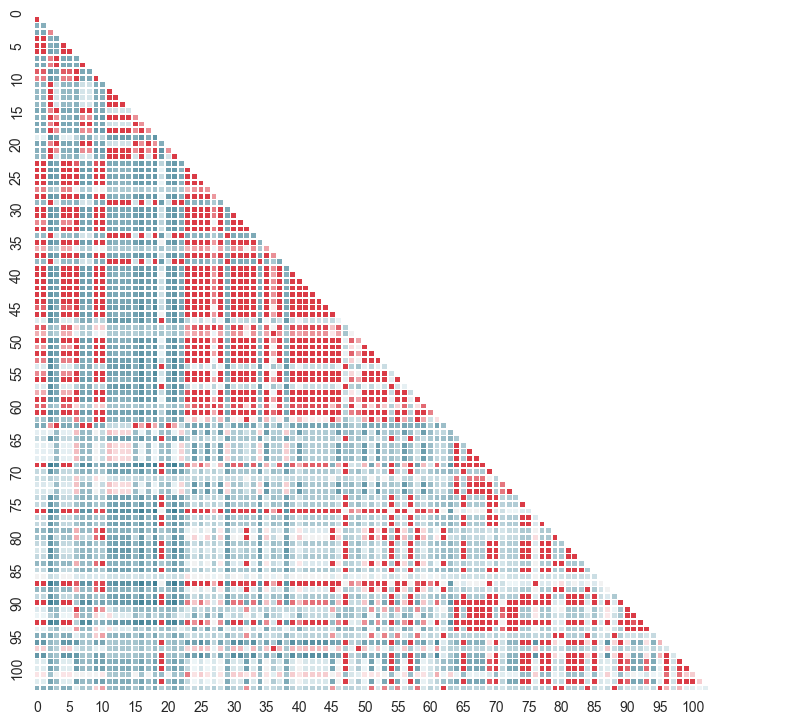
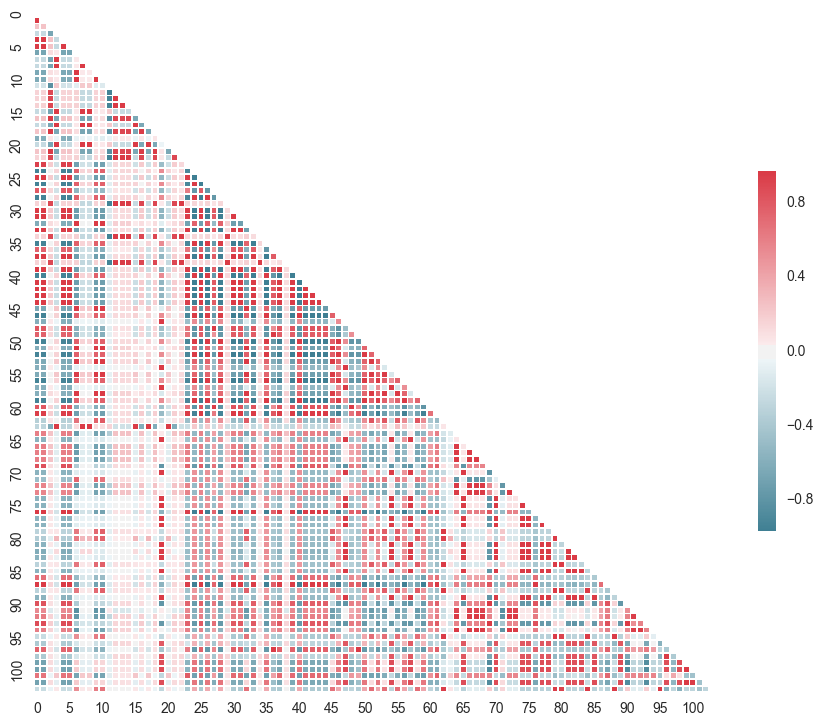
combined into one main file

Changed region(s): [[0.0, 0.0303, 0.881, 1.0], [0.9114, 0.2124, 1.0, 0.7283], [0.0, 0.0, 0.0304, 0.0303]]

diff --git a/Ruthie_Input/visual_paintor.py b/Ruthie_Input/visual_paintor.py
@@ -1,3 +1,123 @@
-#visual_paintor.py
 
-def zscore_plot(filename)
+'''
+
+INPUT: annotation file, ld file, result file
+OUTPUT: Plot of posterior probabilities, plot of pvalues, ld plot, annotations color bar graph
+
+'''
+
+from string import letters
+import numpy as np
+import pandas as pd
+import seaborn as sns
+import matplotlib.pyplot as plt
+import csv 
+import matplotlib as mpl
+from scipy.stats import norm
+import math 
+
+def Read_Data_CSV(filename):
+	"""Reads in space delimited file as input and loads data into an array"""
+	csv_file = csv.reader( open(filename, 'rb'),  delimiter = ' ' )
+	#extract header line
+	file_header = csv_file.next() 
+	#read in all data from input file into n x 3 array
+	data = [ row[:] for row in csv_file ] 
+	data_array = np.array(data, dtype='double' )    
+	np.set_printoptions(suppress=True) #suppress scientific notation  
+	first_column = data_array[:,0]
+	second_column = data_array[:,1]
+	third_column = data_array[:,2]
+	return data_array
+
+def Read_Data_panda(filename):
+	"""Reads in space delimted file as input and loads into a pandas data frame"""
+	data = ld = pd.read_csv(filename, header=None, delimiter=r"\s+")
+	return data
+
+def Plot_Stats(filename):
+	"""Reads in a space delimited result file and returns a scatterplot figure of the pvalues"""
+	data = Read_Data_CSV(filename)
+	position = data[:,0]
+	zscore = data[:,1]
+	#take -log10 scale of zscores 
+	abs_zscore = np.absolute(zscore)
+	pvalue = -1*(norm.logsf(abs_zscore)/math.log(10))
+	plt.scatter(position, pvalue)
+	plt.xlim(0,315)
+	plt.ylim(0,52)
+	plt.xlabel('SNPs')
+	plt.ylabel('Observed association statistics (zscores)')
+	plt.title('Plot of Zscores')
+	plot_statistics = plt 
+	return plot_statistics
+
+def Plot_Probs(filename):
+	"""Reads in a space delimited file and returns a scatterplot figure of the posterior probabilities"""
+	data = Read_Data_CSV(filename)
+	position = data[:,0]
+	probabilities = data[:,2]
+	plt.scatter(position, probabilities)
+	plt.xlim(0,315)
+	plt.ylim(0,.25)
+	plt.xlabel('SNPs')
+	plt.ylabel('Posterior Probabilities')
+	plt.title('Plot of Posterior Probabilities')
+	plot_probabilities = plt
+	return plot_probabilities
+
+def Plot_Correlation(filename):
+	"""Reads in ld file and returns a correlation heatmap"""
+	ld = Read_Data_panda(filename)
+	sns.set(style="white")
+	corr = ld.corr()
+	mask = np.zeros_like(corr, dtype=np.bool)
+	mask[np.triu_indices_from(mask)] = True
+	#f, ax = plt.subplots(figsize=(11, 9))
+	cmap = sns.diverging_palette(220, 10, as_cmap=True)
+	ld_plot = sns.heatmap(corr, mask=mask, cmap=cmap, vmax=.3,
+	           square=True, xticklabels=5, yticklabels=5,
+	           linewidths=.5, cbar_kws={"shrink": .5})
+	# Rotate and Crop figure
+		#To be added 
+	return ld_plot
+
+def Plot_Annotations(filename):
+	"""Reads in annotations file and returns a color bar graph"""
+	csv_file = csv.reader( open(filename, 'rb'),  delimiter = ' ' )
+	file_header = csv_file.next() 
+	data = [ row[:] for row in csv_file ] 
+	data_array = np.array(data, dtype='int_' ) 
+	annotations = data_array[:,1]
+	colors = []
+	for a in annotations:
+	    if a == 0:
+	        colors.append('r')
+	    else:
+	        colors.append('b')
+	fig = plt.figure(figsize=(8, 3))
+	ax2 = fig.add_axes([0.05, 0.475, 0.9, 0.15])
+	cmap = mpl.colors.ListedColormap(colors)
+	cmap.set_over('0.25')
+	cmap.set_under('0.75')
+	N = len(annotations)
+	bounds = range(1,N+1)
+	norm = mpl.colors.BoundaryNorm(bounds, cmap.N)
+	annotations_plot = mpl.colorbar.ColorbarBase(ax2, cmap=cmap,
+	                                norm=norm,
+	                                # to use 'extend', you must
+	                                # specify two extra boundaries:
+	                                #ticks=ticks,  #every 10, add a tick 
+	                                spacing='proportional',
+	                                orientation='horizontal')
+	annotations_plot.set_label('Colorbar Test')
+	return annotations_plot
+
+
+def main():
+	filename = 'Enrich.DHS.38.annotations'
+	plot = Plot_Annotations(filename)
+	plot.show()
+	
+
+if __name__ == "__main__": main()

diff --git a/Ruthie_Input/correlation.py b/Ruthie_Input/correlation.py
@@ -9,36 +9,39 @@ sns.set(style="white")
 
 #read in input files 
 filename = 'Enrich.DHS.6.ld'
+
 ld = pd.read_csv(filename, header=None, delimiter=r"\s+")
 
-###########
-# R-squared values
-ld_squared = ld**2
-corr = ld_squared.corr()
-###########
+	###########
+	# R-squared values
+	#ld_squared = ld**2
+	#corr = ld_squared.corr()
+	###########
 
 #create correlation matrix
-#corr = ld.corr()
+corr = ld.corr()
 
-# Generate a mask for the upper triangle
+	# Generate a mask for the upper triangle
 mask = np.zeros_like(corr, dtype=np.bool)
 mask[np.triu_indices_from(mask)] = True
 
-# Set up the matplotlib figure
+	# Set up the matplotlib figure
 f, ax = plt.subplots(figsize=(11, 9))
 
-# Generate a custom diverging colormap
+	# Generate a custom diverging colormap
 cmap = sns.diverging_palette(220, 10, as_cmap=True)
 
-# Draw the heatmap with the mask and correct aspect ratio
-sns.heatmap(corr, mask=mask, cmap=cmap, vmax=.3,
-            square=True, xticklabels=5, yticklabels=5,
-            linewidths=.5, cbar_kws={"shrink": .5}, ax=ax)
+	# Draw the heatmap with the mask and correct aspect ratio
+ld_plot = sns.heatmap(corr, mask=mask, cmap=cmap, vmax=.3,
+	           square=True, xticklabels=5, yticklabels=5,
+	           linewidths=.5, cbar_kws={"shrink": .5}, ax=ax)
 
 plt.savefig('fig.png', bbox_inches='tight')
-im1 = Image.open("fig.png")
+plt.savefig()
+#im1 = Image.open("fig.png")
+im1 = plt
 im2 = im1.rotate(45, expand=True)
 #im2 = im2.crop(0, 0, 10, 10)
-im2.show()
+#im2.show()
 #im2.save("fig_rotate.png")
-#plt.show()
+plt.show()

diff --git a/Ruthie_Input/plot.py b/Ruthie_Input/plot.py
@@ -10,7 +10,7 @@ import numpy as np
 import math 
 import seaborn as sns 
 import matplotlib.pyplot as plt
-from matplotlib import pyplot
+#from matplotlib import pyplot
 import matplotlib as mpl
 from scipy.stats import norm
 
@@ -76,7 +76,7 @@ for a in annotations:
 print colors 
 
 # Make a figure and axes with dimensions as desired.
-fig = pyplot.figure(figsize=(8, 3))
+fig = plt.figure(figsize=(8, 3))
 
 ax2 = fig.add_axes([0.05, 0.475, 0.9, 0.15])
 
@@ -111,10 +111,11 @@ cb2.set_label('Colorbar Test')
 
 
 # Two subplots, the axes array is 1-d
-f, axarr = plt.subplots(2, sharex=True)
+f, axarr = plt.subplots(3, sharex=True)
 axarr[0].scatter(pos_array, prob_array)
 axarr[0].set_title('Sharing X axis')
 axarr[1].scatter(pos_array, pvalue)
+
 #axarr[2].cb2
 '''
 plt.xlim(0,315)
